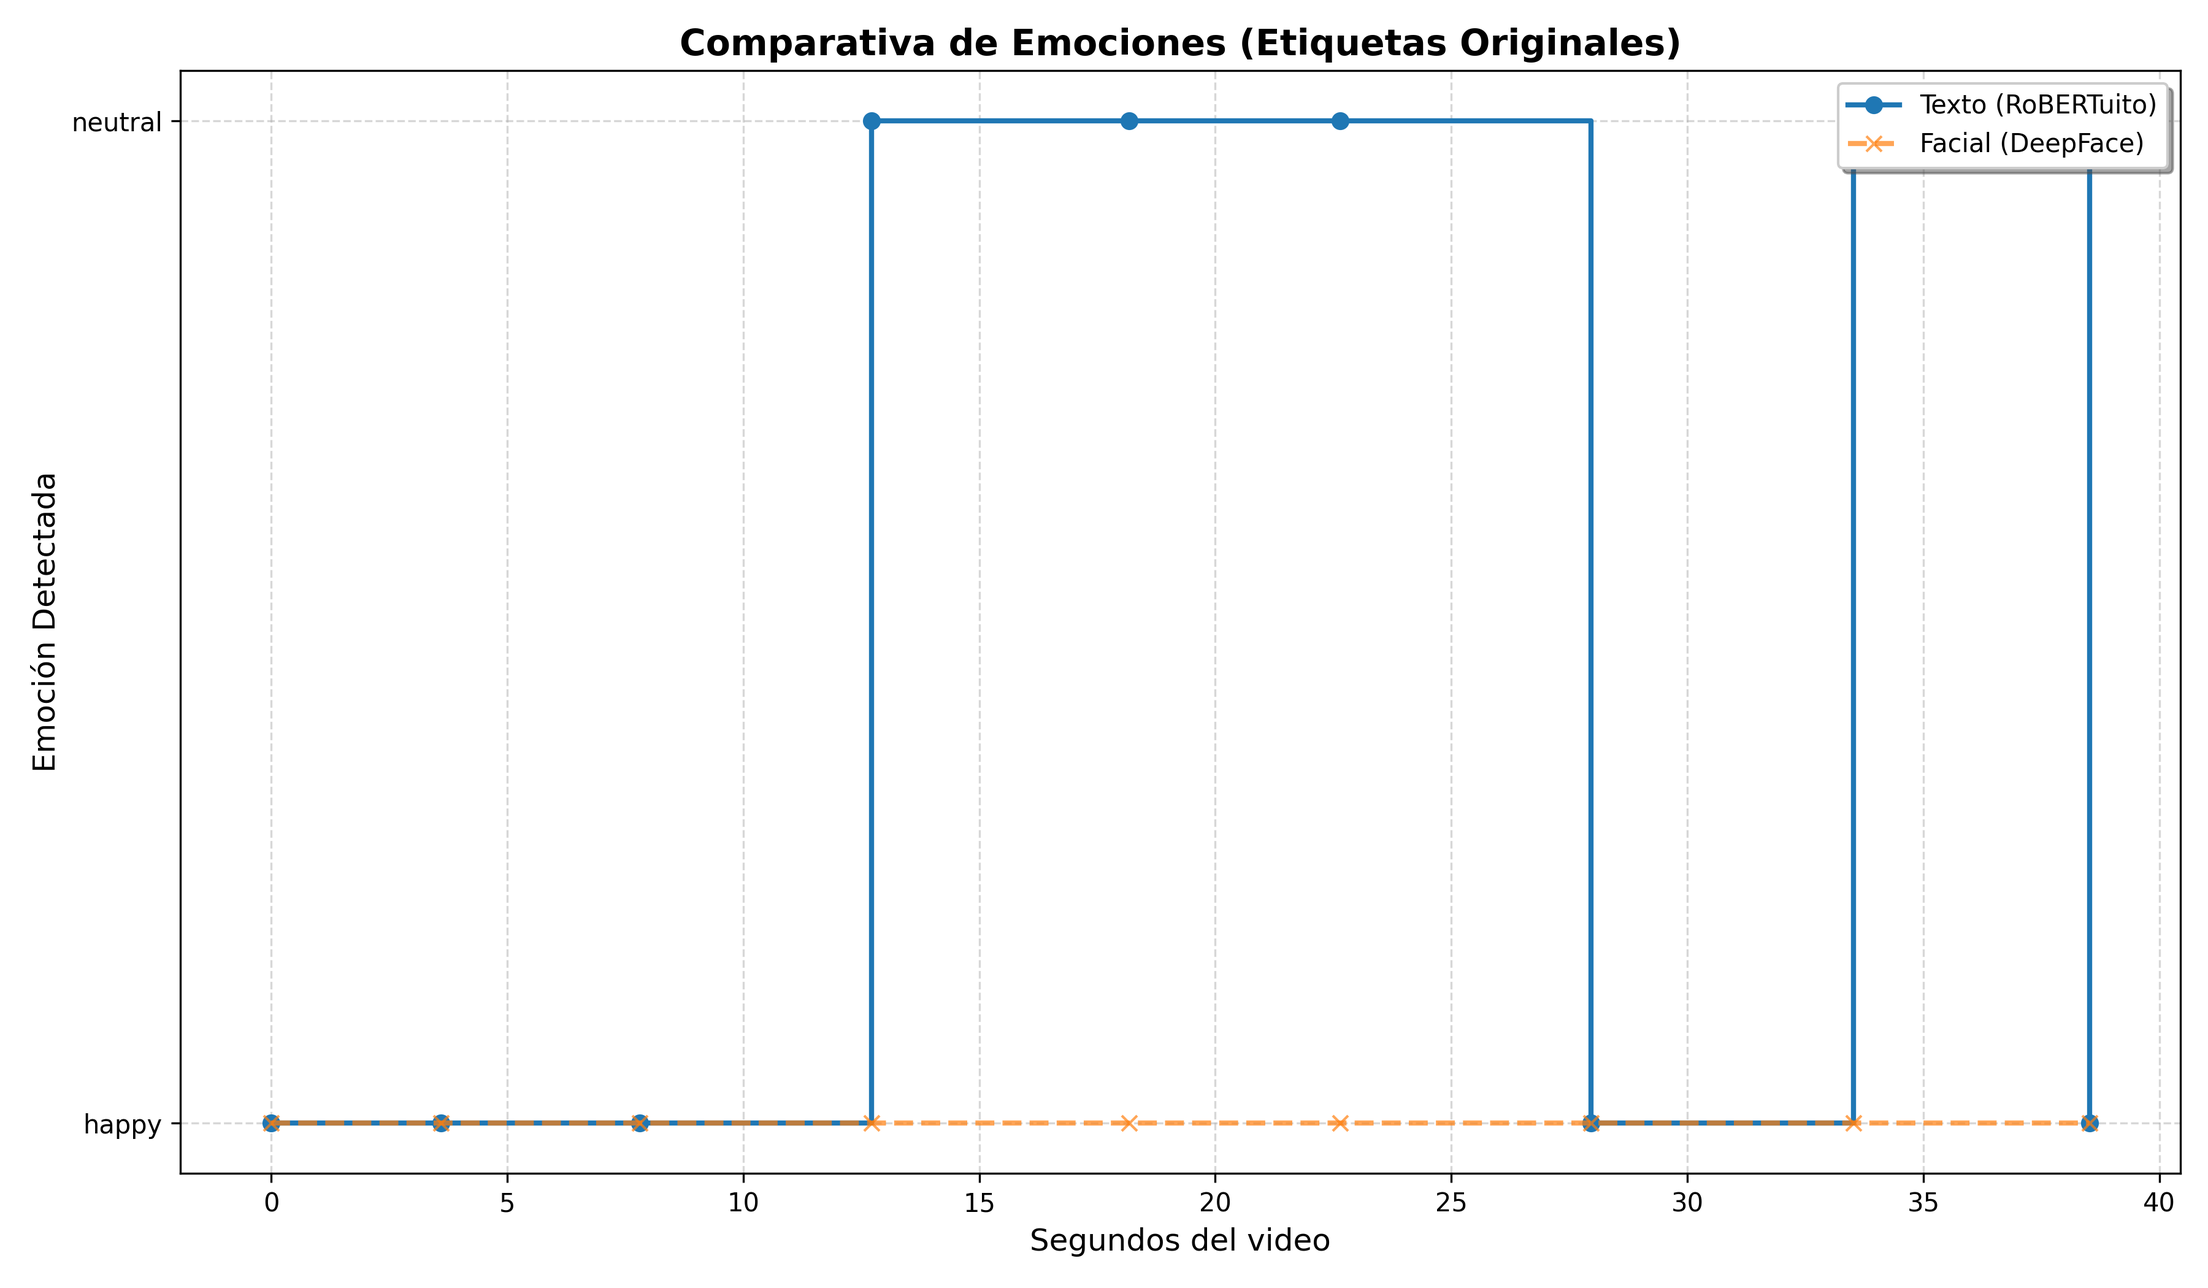
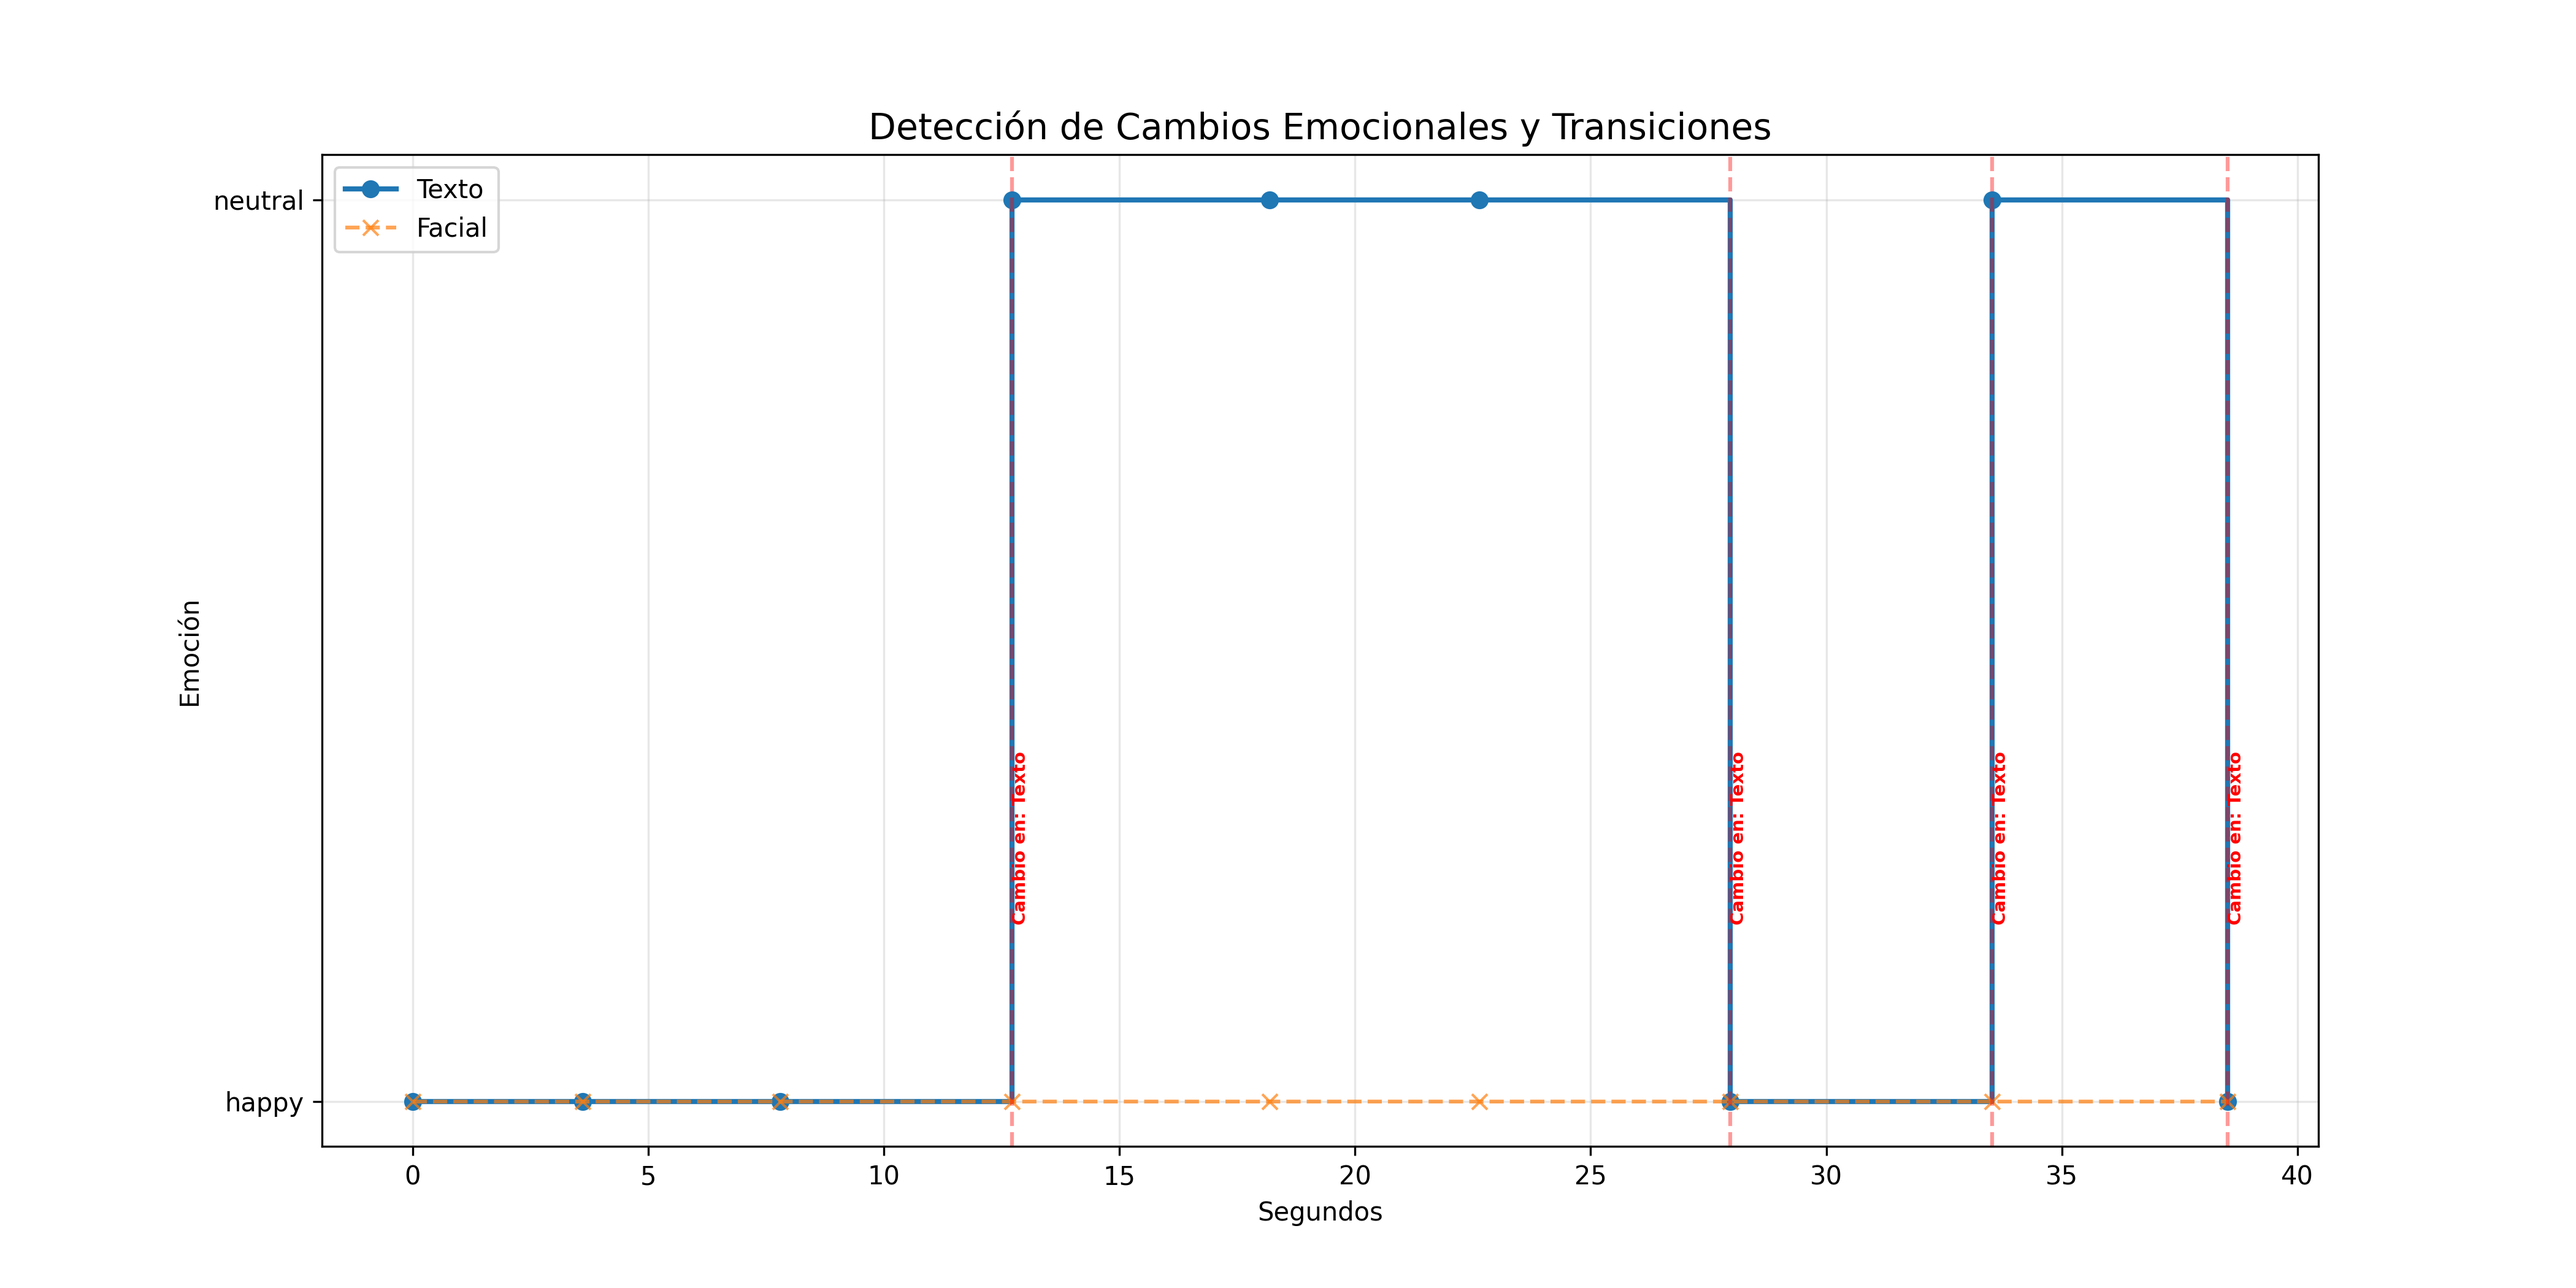
Deteccion cambios

diff --git a/02_CODE/modules/integration/visualizer.py b/02_CODE/modules/integration/visualizer.py
@@ -5,38 +5,33 @@ from utils.logger import get_logger
 log = get_logger("Visualizador")
 
 def generate_comparison_plot(integrated_data, output_path):
-    log.info(f"Generando visualización con etiquetas originales...")
+    log.info(f"Generando visualización con detección de cambios (PBI 4.1)...")
     
-    # 1. Preparar los datos
     times = [e['start_time_sec'] for e in integrated_data]
-    
-    # Etiquetas de texto (vienen procesadas del transcriber)
     text_emos = [e['emotion_text_nlp'] for e in integrated_data]
-    
-    # Etiquetas faciales originales de DeepFace
     face_emos = [e['emotion_facial_mode'] for e in integrated_data]
 
-    # 3. Configurar el gráfico
-    plt.figure(figsize=(12, 7))
+    plt.figure(figsize=(14, 7))
     
-    # Graficar con estilo "step"
-    plt.step(times, text_emos, where='post', label='Texto (RoBERTuito)', 
-             marker='o', linewidth=2, color='#1f77b4')
-    
-    plt.step(times, face_emos, where='post', label='Facial (DeepFace)', 
-             marker='x', linewidth=2, alpha=0.7, color='#ff7f0e', linestyle='--')
+    # Graficar líneas principales
+    plt.step(times, text_emos, where='post', label='Texto', marker='o', linewidth=2)
+    plt.step(times, face_emos, where='post', label='Facial', marker='x',  linewidth=2)
 
-    # 4. Estética
-    plt.title("Comparativa de Emociones (Etiquetas Originales)", fontsize=14, fontweight='bold')
-    plt.xlabel("Segundos del video", fontsize=12)
-    plt.ylabel("Emoción Detectada", fontsize=12)
-    plt.legend(loc='upper right', frameon=True, shadow=True)
-    plt.grid(True, linestyle='--', alpha=0.5)
+    # MARCAR PUNTOS DE CAMBIO (PBI 4.1)
+    for event in integrated_data:
+        # En visualizer.py, dentro del loop de is_change_point:
+        if event['is_change_point']:
+            plt.axvline(x=event['start_time_sec'], color='red', linestyle='--', alpha=0.4)
+            # Usamos el temporal_insight para saber qué cambió
+            plt.text(event['start_time_sec'], 0.2, event['temporal_insight'], 
+                    color='red', rotation=90, fontsize=7, fontweight='bold')
+            
+    plt.title("Detección de Cambios Emocionales y Transiciones", fontsize=14)
+    plt.xlabel("Segundos")
+    plt.ylabel("Emoción")
+    plt.legend()
+    plt.grid(True, alpha=0.3)
     
-    plt.tight_layout()
-
-    # Guardar usando helpers (asumido en el flujo principal)
     os.makedirs(os.path.dirname(output_path), exist_ok=True)
     plt.savefig(output_path, dpi=300)
     plt.close()
-    log.info(f"Gráfico guardado en: {output_path}")

diff --git a/02_CODE/modules/integration/synchronizer.py b/02_CODE/modules/integration/synchronizer.py
@@ -1,26 +1,51 @@
 import pandas as pd
 from collections import Counter
+from utils.logger import get_logger
+
+log = get_logger("Modulo_Sincronizacion")
 
 def synchronize_data(transcription_data, csv_path):
-    print("-> Sincronizando datos Multimodales...")
+    log.info("-> Ejecutando detección de cambios Multimodal (PBI 4.1 Avanzado)...")
     df_faces = pd.read_csv(csv_path)
     integrated = []
+    
+    prev_text = None
+    prev_face = None
 
     for seg in transcription_data:
-        # Filtrar frames del video en el tiempo del texto
         mask = (df_faces['timestamp_sec'] >= seg['start_time']) & (df_faces['timestamp_sec'] <= seg['end_time'])
         segment_faces = df_faces.loc[mask]
         
-        face_mode = "neutral"
-        if not segment_faces.empty:
-            face_mode = Counter(segment_faces['emotion'].tolist()).most_common(1)[0][0]
+        face_mode = Counter(segment_faces['emotion'].tolist()).most_common(1)[0][0] if not segment_faces.empty else "neutral"
+        
+        # --- NUEVA LÓGICA DE DETECCIÓN AVANZADA ---
+        change_reasons = []
+        
+        # 1. ¿Cambió el texto?
+        if prev_text and seg['emotion'] != prev_text:
+            change_reasons.append("Texto")
+            
+        # 2. ¿Cambió la cara? (Esto detectará el salto a 'angry' en tu video)
+        if prev_face and face_mode != prev_face:
+            change_reasons.append("Rostro")
+            
+        # Determinar si es un punto de cambio
+        is_change = len(change_reasons) > 0
+        insight = f"Cambio en: {', '.join(change_reasons)}" if is_change else "Estable"
 
-        integrated.append({
+        event = {
             "start_time_sec": seg['start_time'],
             "end_time_sec": seg['end_time'],
             "text": seg['text'],
             "emotion_text_nlp": seg['emotion'],
             "emotion_facial_mode": face_mode,
-            "congruence": 1.0 if seg['emotion'].lower().split()[0] in face_mode.lower() else 0.0
-        })
+            "congruence": 1.0 if seg['emotion'] == face_mode else 0.0,
+            "temporal_insight": insight,
+            "is_change_point": is_change # Ahora marca si cambió CUALQUIERA de los dos
+        }
+        
+        integrated.append(event)
+        prev_text = seg['emotion']
+        prev_face = face_mode
+
     return integrated
